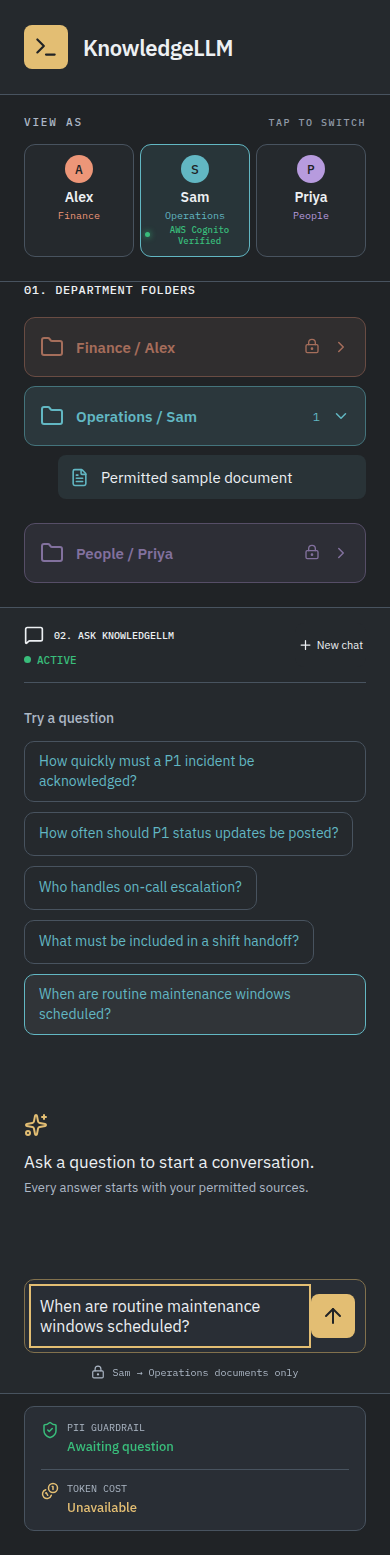
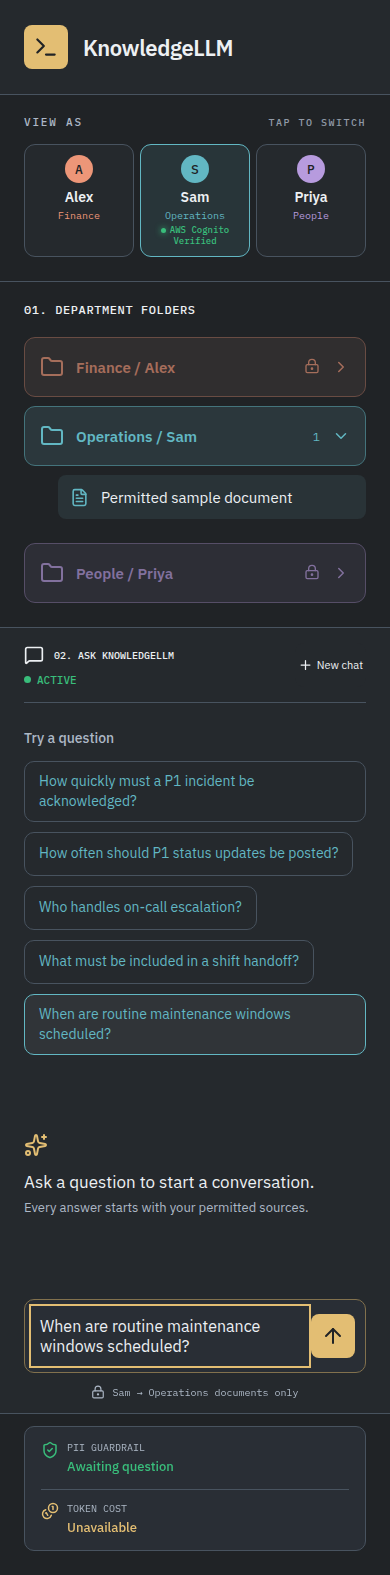
fix(web): align mobile status and animate source checks

diff --git a/web/src/components/ChatPanel.test.tsx b/web/src/components/ChatPanel.test.tsx
@@ -1,0 +1,39 @@
+import { render, screen } from "@testing-library/react";
+import { describe, expect, it } from "vitest";
+import { ChatPanel } from "./ChatPanel";
+
+describe("ChatPanel pending status", () => {
+  it("announces a stable status while pending and clears it when finished", () => {
+    const props = {
+      name: "Sam",
+      departments: ["operations" as const],
+      messages: [],
+      signedIn: true,
+      onNew: () => {},
+      onOpen: () => {},
+      onSuggestion: () => {},
+    };
+    const { rerender } = render(<ChatPanel {...props} busy />);
+
+    const status = screen.getByRole("status");
+    expect(status).toHaveTextContent("Checking your permitted sources");
+    expect(status.querySelector("svg")).toHaveAttribute("aria-hidden", "true");
+    expect(status.querySelector(".thinking-dots")).toHaveAttribute(
+      "aria-hidden",
+      "true",
+    );
+    expect(
+      screen.getByRole("button", {
+        name: "How quickly must a P1 incident be acknowledged?",
+      }),
+    ).toBeDisabled();
+
+    rerender(<ChatPanel {...props} busy={false} />);
+    expect(screen.queryByRole("status")).not.toBeInTheDocument();
+    expect(
+      screen.getByRole("button", {
+        name: "How quickly must a P1 incident be acknowledged?",
+      }),
+    ).toBeEnabled();
+  });
+});

diff --git a/web/src/styles/app.css b/web/src/styles/app.css
@@ -527,6 +527,33 @@ h2 {
   color: var(--muted);
   font-size: 14px;
 }
+.thinking-icon {
+  color: var(--gold);
+  animation: thinking-spin 1.5s linear infinite;
+}
+.thinking-dots span {
+  animation: thinking-dot 1.2s ease-in-out infinite;
+}
+.thinking-dots span:nth-child(2) {
+  animation-delay: 0.2s;
+}
+.thinking-dots span:nth-child(3) {
+  animation-delay: 0.4s;
+}
+@keyframes thinking-spin {
+  to {
+    transform: rotate(360deg);
+  }
+}
+@keyframes thinking-dot {
+  0%,
+  100% {
+    opacity: 0.3;
+  }
+  50% {
+    opacity: 1;
+  }
+}
 .workspace-notices {
   width: min(100%, 850px);
   padding: 0 36px 20px;
@@ -720,12 +747,14 @@ h2 {
     width: 100%;
   }
   .identity-auth-subline {
-    justify-content: center;
+    display: block;
+    text-align: center;
     font-size: 9px;
     letter-spacing: 0;
   }
   .identity-auth-subline::before {
-    flex-shrink: 0;
+    margin-right: 4px;
+    vertical-align: middle;
   }
   .identity-primary {
     flex-direction: column;
@@ -751,7 +780,7 @@ h2 {
   .sidebar {
     background: var(--canvas);
     border: 0;
-    padding: 0 24px 24px;
+    padding: 20px 24px 24px;
   }
   .folder-heading {
     padding: 0;

diff --git a/web/src/components/ChatPanel.tsx b/web/src/components/ChatPanel.tsx
@@ -132,8 +132,20 @@ export function ChatPanel({
           ))}
           {busy && (
             <p role="status" className="thinking">
-              <Sparkles size={18} />
-              Checking your permitted sources…
+              <Sparkles
+                size={18}
+                className="thinking-icon"
+                aria-hidden="true"
+              />
+              <span>
+                Checking your permitted sources
+                <span className="sr-only">…</span>
+                <span className="thinking-dots" aria-hidden="true">
+                  <span>.</span>
+                  <span>.</span>
+                  <span>.</span>
+                </span>
+              </span>
             </p>
           )}
           {signedIn && !busy && !messages.length && (

diff --git a/PROMTS.md b/PROMTS.md
@@ -20,6 +20,8 @@ Build a responsive, permission-aware document assistant for Alex / Finance, Sam 
 - Keep the graphite theme, department accents, responsive desktop/sidebar and mobile/accordion layouts, keyboard focus, reduced motion, descriptive icon labels, and 44px touch targets.
 - On mobile, fit all three compact persona cards without horizontal scrolling, including the active verification label. Place the question composer and access caption above the PII guardrail/token-cost panel; use compact line spacing and room for two input lines.
 - Use the persona cards as the sign-in entry points on mobile and desktop; omit the separate initial Sign in button and Cognito username/password instruction.
+- On mobile, keep the verification dot inline with the centered first line of its label, and give the Department Folders heading 20px of space above it.
+- While an answer is pending, animate the source-checking star and trailing dots on desktop and mobile. Keep a stable accessible status message and disable animation when reduced motion is requested.
 - After authentication and successful authorized document listing, show a small green `AWS Cognito Verified` line under the active name and a success toast. Remove its folder lock, display its document count, and expand its files. Keep other folders locked; clear verification on switching or listing failure.
 - Provide five document-based question buttons per authorized department instead of the identity introduction and permission badges. Clicking fills and focuses the composer without submitting; disable during pending requests and clear on switching or New chat.
 - Open documents and citations through authorized, short-lived S3 links. Preserve the conversation when opening a source.
